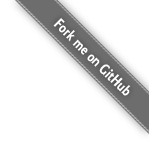
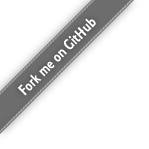
fix

diff --git a/src/App.vue b/src/App.vue
@@ -20,7 +20,7 @@
     <div class="back-to-top" @click="toTop">
       <img src="./assets/rocket.svg" alt="">
     </div>
-    <!-- <a href="https://github.com/hk029/househunter"><img style="position: absolute; top: 0; right: 0; border: 0;" src="./assets/forkme.png" alt="Fork me on GitHub"></a> -->
+    <a class="forkme" href="https://github.com/hk029/househunter"><img style="position: absolute; top: 0; left: 0; border: 0;" src="./assets/forkme.png" alt="Fork me on GitHub"></a>
   </div>
 </template>
 
@@ -116,7 +116,7 @@ main {
 }
 
 
-@media screen and (max-width: 980px) {
+@media screen and (max-width: 1150px) {
   .title p{
     display: none;
   }
@@ -136,8 +136,8 @@ main {
   /* border:solid 1px #eee; */
   cursor: pointer;
 }
-.back-to-top img {
-  width: 80%;
-}
+  .forkme{
+    display: none;
+  }
 }
 </style>
